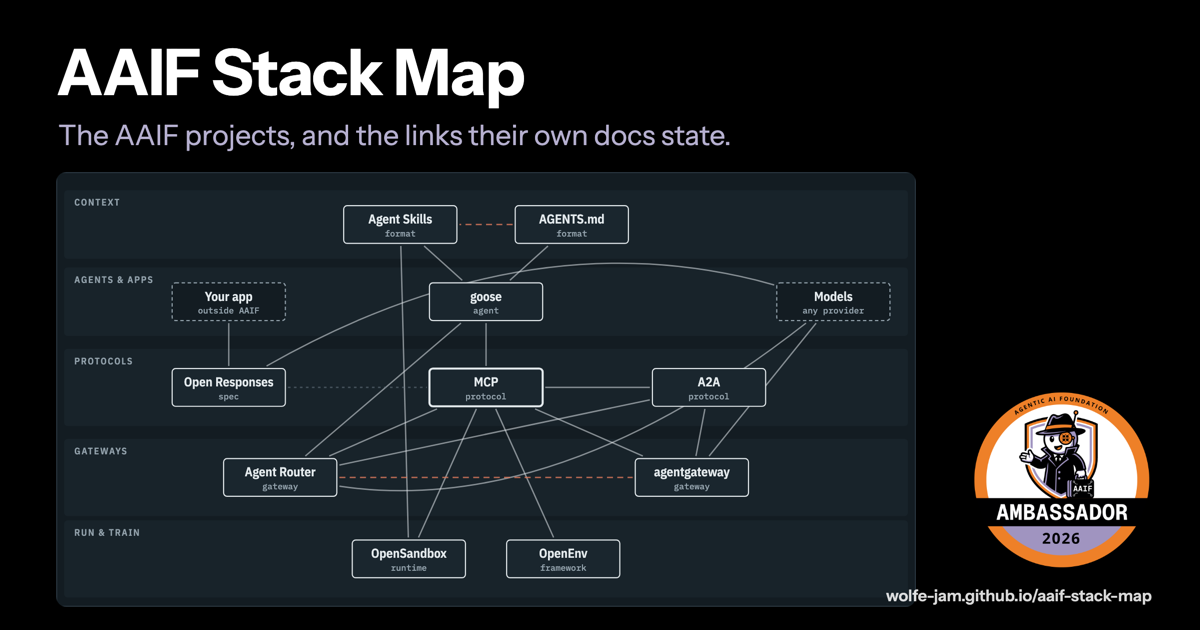
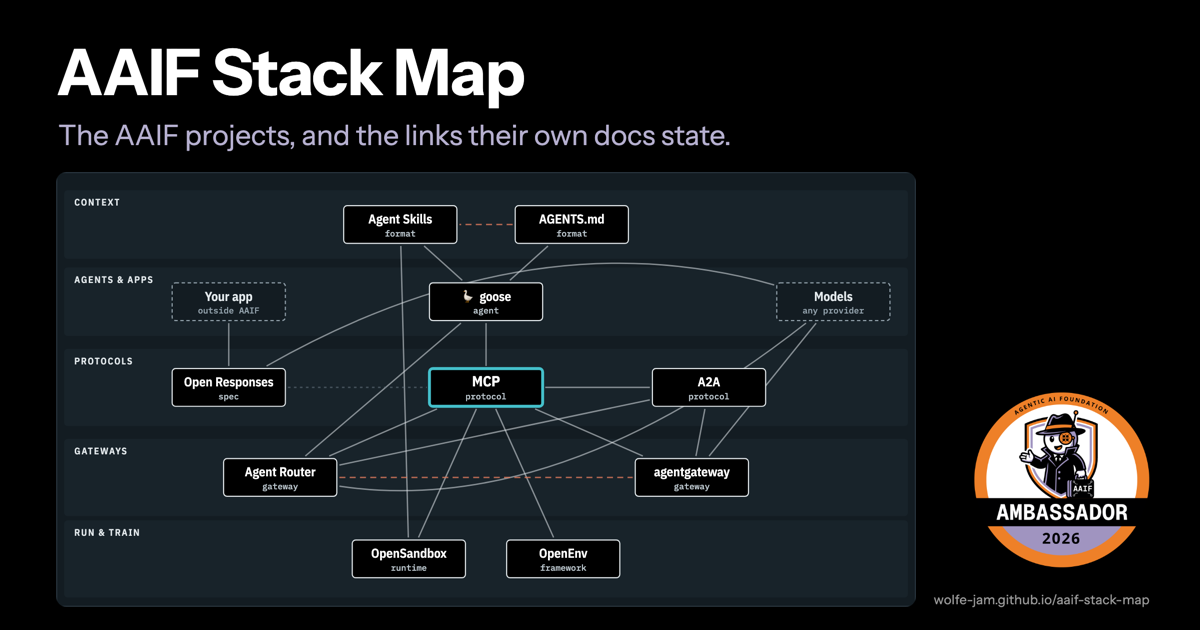
feat: Black project boxes, a stronger MCP hub, and a goose (#11)
* feat: Black project boxes, a stronger MCP hub, and a goose

- Project boxes are black with white text in both themes, so they stand out from the page; outside nodes keep their dashed outline
- MCP, the hub, is always outlined in the accent colour, thicker, with a larger label
- Layer labels use the main text colour instead of the muted grey
- goose shows as "🪿 goose" (screen readers still hear "goose")
- assets/og.png redrawn from the new page, with a smaller URL line

* fix: Keep MCP's thick outline when it's selected; drop the unused --node

- .nd.hub.on keeps stroke-width 3.4, so the hub stays emphasised when clicked or in a flow
- --node is no longer used by any box

From goose's review of this pull request.

---------

diff --git a/index.html b/index.html
@@ -36,7 +36,6 @@
   --accent-soft: #D3EAEC;
   --seam: #A8432B;
   --weak: #8A979F;
-  --node: #FFFFFF;
   --new: #9A6B00;
   --display: "IBM Plex Sans Condensed", "Arial Narrow", Arial, sans-serif;
   --body: "IBM Plex Sans", "Helvetica Neue", Arial, sans-serif;
@@ -44,11 +43,11 @@
 }
 @media (prefers-color-scheme: dark) { :root:not([data-theme="light"]) {
   --ground: #0E151A; --sheet: #131C22; --ink: #E4EAED; --muted: #93A2AC; --rule: #2B3842;
-  --band: #18232A; --accent: #45C1CC; --accent-soft: #123238; --seam: #E07A5E; --weak: #6D7C86; --node: #1A262E; --new: #E3B341;
+  --band: #18232A; --accent: #45C1CC; --accent-soft: #123238; --seam: #E07A5E; --weak: #6D7C86; --new: #E3B341;
   color-scheme: dark } }
 :root[data-theme="dark"] {
   --ground: #0E151A; --sheet: #131C22; --ink: #E4EAED; --muted: #93A2AC; --rule: #2B3842;
-  --band: #18232A; --accent: #45C1CC; --accent-soft: #123238; --seam: #E07A5E; --weak: #6D7C86; --node: #1A262E; --new: #E3B341;
+  --band: #18232A; --accent: #45C1CC; --accent-soft: #123238; --seam: #E07A5E; --weak: #6D7C86; --new: #E3B341;
   color-scheme: dark }
 
 body { margin: 0; background: var(--ground); color: var(--ink); font: 15px/1.55 var(--body); }
@@ -78,7 +77,7 @@ button[aria-pressed="true"] { background: var(--accent); border-color: var(--acc
 .board { background: var(--sheet); border: 1px solid var(--rule); border-radius: 6px; overflow-x: auto; min-width: 0; }
 svg { display: block; width: 100%; min-width: 640px; height: auto; }
 .bandrect { fill: var(--band); }
-.bandlabel { font: 600 11px var(--display); letter-spacing: .12em; text-transform: uppercase; fill: var(--muted); }
+.bandlabel { font: 600 11px var(--display); letter-spacing: .12em; text-transform: uppercase; fill: var(--ink); }
 .edge { fill: none; stroke: var(--ink); stroke-width: 1.6; opacity: .55; transition: opacity .2s, stroke .2s, stroke-width .2s; }
 .edge.weak { stroke: var(--weak); stroke-dasharray: 3 4; }
 .edge.seam { stroke: var(--seam); stroke-dasharray: 7 5; opacity: .8; }
@@ -87,12 +86,18 @@ svg { display: block; width: 100%; min-width: 640px; height: auto; }
 .edge.dim { opacity: .1; }
 .hit { fill: none; stroke: transparent; stroke-width: 14; cursor: pointer; }
 .nd { cursor: pointer; }
-.nd rect { fill: var(--node); stroke: var(--ink); stroke-width: 1.3; transition: stroke .2s, fill .2s, opacity .2s; }
+.nd rect { fill: #000; stroke: var(--ink); stroke-width: 1.3; transition: stroke .2s, fill .2s, opacity .2s; }
 .nd.ext rect { stroke-dasharray: 4 3; stroke: var(--muted); fill: var(--sheet); }
-.nd text.n { font: 600 15px var(--display); fill: var(--ink); }
-.nd text.k { font: 500 10px var(--mono); fill: var(--muted); }
-.nd.hub rect { stroke-width: 2.4; }
+.nd text.n { font: 600 15px var(--display); fill: #fff; }
+.nd text.k { font: 500 10px var(--mono); fill: #B9C4CB; }
+.nd.ext text.n { fill: var(--ink); }
+.nd.ext text.k { fill: var(--muted); }
+.nd.hub rect { stroke: var(--accent); stroke-width: 3.4; }
+.nd.hub text.n { font-size: 17px; font-weight: 700; }
 .nd.on rect { stroke: var(--accent); stroke-width: 2.6; fill: var(--accent-soft); }
+.nd.hub.on rect { stroke-width: 3.4; }
+.nd.on text.n { fill: var(--ink); }
+.nd.on text.k { fill: var(--muted); }
 .nd.dim { opacity: .28; }
 
 .panel { background: var(--sheet); border: 1px solid var(--rule); border-radius: 6px; padding: 18px; display: grid; gap: 12px; min-width: 0; }
@@ -271,7 +276,7 @@ a { color: var(--accent); }
   NODES.forEach(n => {
     const g = el('g', { class: 'nd' + (n.ext ? ' ext' : '') + (n.hub ? ' hub' : ''), tabindex: 0, role: 'button', 'aria-label': n.name + ', ' + n.kind }, nodeLayer);
     el('rect', { x: n.x - W / 2, y: n.y - H / 2, width: W, height: H, rx: 4 }, g);
-    const t = el('text', { class: 'n', x: n.x, y: n.y - 1, 'text-anchor': 'middle' }, g); t.textContent = n.name;
+    const t = el('text', { class: 'n', x: n.x, y: n.y - 1, 'text-anchor': 'middle' }, g); t.textContent = (n.id === 'goose' ? '🪿 ' : '') + n.name; // a little goose, for fun; screen readers still hear "goose"
     const k = el('text', { class: 'k', x: n.x, y: n.y + 14, 'text-anchor': 'middle' }, g); k.textContent = n.kind;
     const go = () => showNode(n.id);
     g.addEventListener('click', go);
